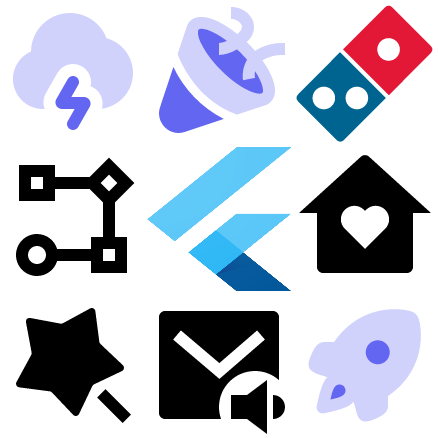
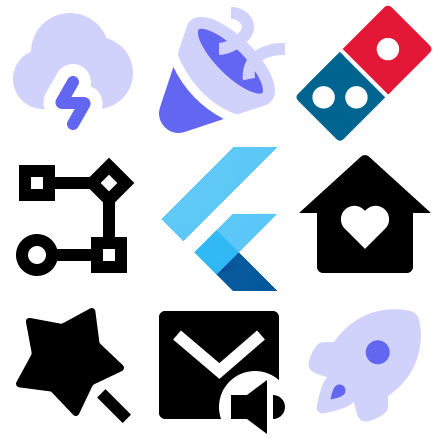
Added aspect ratio support.

diff --git a/packages/icon_bundler/lib/src/renderer.dart b/packages/icon_bundler/lib/src/renderer.dart
@@ -4,6 +4,7 @@ import 'dart:io';
 import 'dart:typed_data';
 
 import 'package:icon_bundler/src/spritesheet.dart';
+import 'package:icon_bundler/src/utils.dart';
 import 'package:image/image.dart';
 import 'package:path/path.dart';
 
@@ -18,29 +19,42 @@ class SpritesheetRenderer {
       onStartSprite?.call(sprite);
       switch (sprite.sprite) {
         case VectorSprite(svg: final String svg):
-          await renderer.paintSvg(
-            svg,
-            sprite.left,
-            sprite.top,
+          final svgSize = parseSvgSize(svg);
+          final size = fitSize(
+            svgSize.width,
+            svgSize.height,
             sprite.width,
             sprite.height,
+          );
+          await renderer.paintSvg(
+            svg,
+            sprite.left + ((sprite.width / 2) - (size.width / 2)).toInt(),
+            sprite.top + ((sprite.height / 2) - (size.height / 2)).toInt(),
+            size.width,
+            size.height,
           );
 
           break;
         case RasterizedSprite(image: final Image image):
+          final size = fitSize(
+            image.width,
+            image.height,
+            sprite.width,
+            sprite.height,
+          );
           // We control downsampling algorithm here
           final resized = copyResize(
             image,
             interpolation: Interpolation.cubic,
-            width: sprite.width,
-            height: sprite.height,
+            width: size.width,
+            height: size.height,
           );
           await renderer.paintImage(
             resized,
-            sprite.left,
-            sprite.top,
-            sprite.width,
-            sprite.height,
+            sprite.left + ((sprite.width / 2) - (size.width / 2)).toInt(),
+            sprite.top + ((sprite.height / 2) - (size.height / 2)).toInt(),
+            size.width,
+            size.height,
           );
           break;
       }

diff --git a/packages/icon_bundler/lib/src/utils.dart b/packages/icon_bundler/lib/src/utils.dart
@@ -1,0 +1,38 @@
+/// Fits the source image to the output size, maintaining aspect ratio.
+({int width, int height}) fitSize(
+  int sourceWidth,
+  int sourceHeight,
+  outputWidth,
+  int outputHeight,
+) {
+  if (outputWidth / outputHeight > sourceWidth / sourceHeight) {
+    return (
+      width: (sourceWidth * outputHeight / sourceHeight).toInt(),
+      height: outputHeight,
+    );
+  }
+  return (
+    width: outputWidth,
+    height: (sourceHeight * outputWidth / sourceWidth).toInt(),
+  );
+}
+
+({int width, int height}) parseSvgSize(String svg) {
+  final viewBox = RegExp(r'viewBox="([^"]+)"').firstMatch(svg);
+  if (viewBox != null) {
+    final values = viewBox.group(1)!;
+    final splits = values.split(' ');
+    if (splits.length >= 4) {
+      try {
+        final width = double.parse(splits[2]);
+        final height = double.parse(splits[3]);
+        return (width: width.toInt(), height: height.toInt());
+      } catch (e) {
+        throw FormatException('Invalid viewBox dimensions: $values');
+      }
+    }
+  }
+  throw ArgumentError(
+    'SVG should have a valid viewBox attribute.\n\nInvalid SVG: $svg',
+  );
+}

diff --git a/packages/icon_bundler/bin/icon_bundler.dart b/packages/icon_bundler/bin/icon_bundler.dart
@@ -134,7 +134,7 @@ void main(List<String> arguments) async {
         const loaderSymbols = ['▖', '▗', '▝', '▘'];
         final symbol = loaderSymbols[progress.index % loaderSymbols.length];
         stdout.writeln(
-          '$symbol ${(progress.progress * 100).toStringAsFixed(1)}% ${progress.nextSprite.name}',
+          ' $symbol ${(progress.progress * 100).toStringAsFixed(1)}% ${progress.nextSprite.name}',
         );
       case SpritesheetRenderedEvent rendered:
         stdout.write('\x1B[1A'); // Move cursor up

diff --git a/packages/icon_bundler/lib/src/spritesheet.dart b/packages/icon_bundler/lib/src/spritesheet.dart
@@ -113,6 +113,7 @@ class Spritesheet {
         if (decoded == null) {
           throw FormatException('Failed to decode PNG: ${file.path}');
         }
+
         sprites[name] = RasterizedSprite(
           name: name,
           image: decoded,

diff --git a/packages/icon_bundler/CHANGELOG.md b/packages/icon_bundler/CHANGELOG.md
@@ -1,3 +1,7 @@
+## 1.1.0
+
+- Added aspect ratio support for generated icons.
+
 ## 1.0.0
 
 - Initial version.
